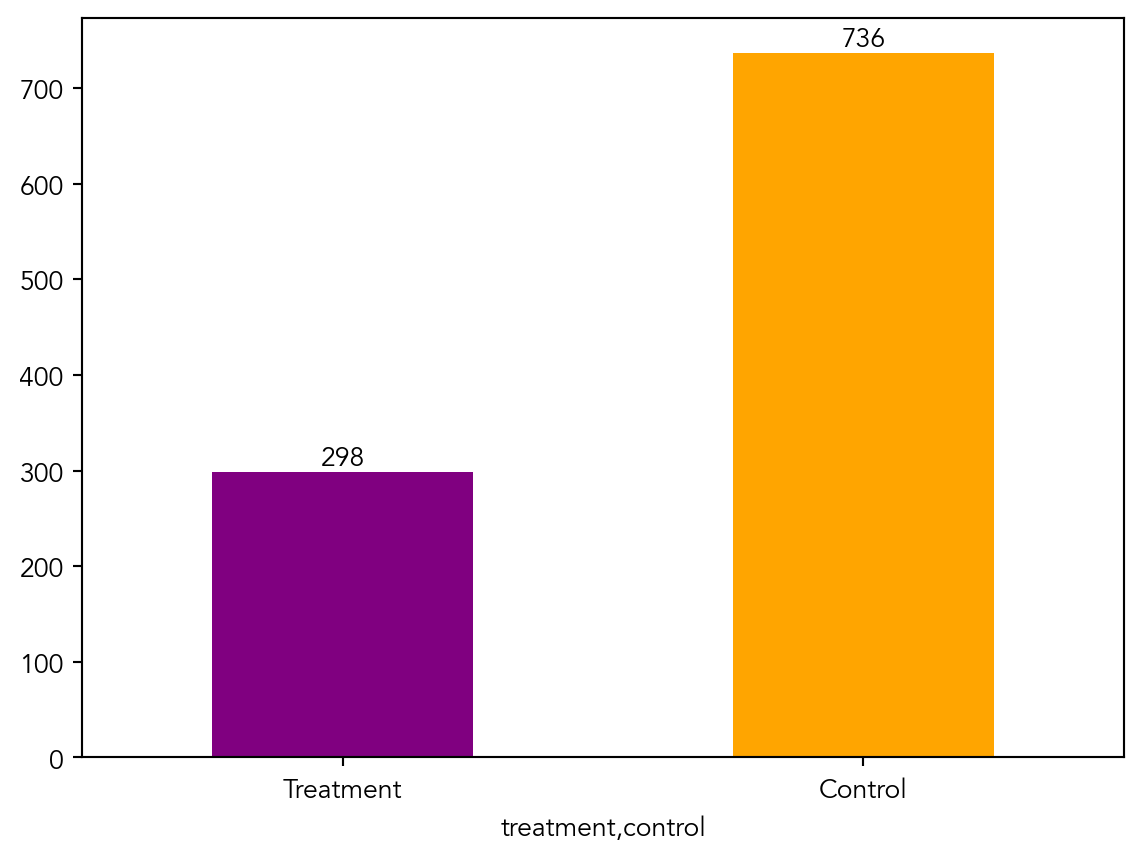
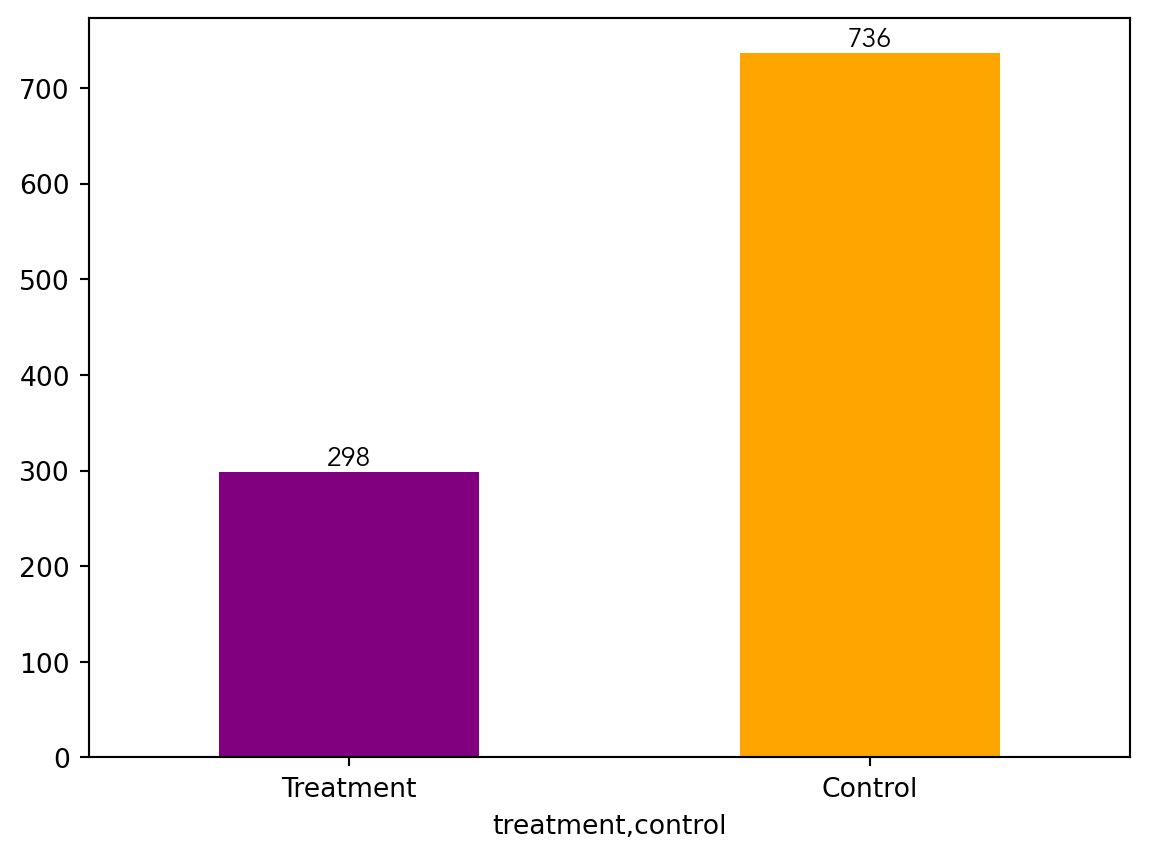
Added_projects_page

diff --git a/docs/projects/project1/projects_files/mediabag/index.html b/docs/projects/project1/projects_files/mediabag/index.html
@@ -7,7 +7,7 @@
 <meta name="viewport" content="width=device-width, initial-scale=1.0, user-scalable=yes">
 
 <meta name="author" content="Madeline Sands">
-<meta name="dcterms.date" content="2024-04-15">
+<meta name="dcterms.date" content="2024-04-16">
 
 <title>Madeline Sands - A Replication of Karlan and List (2007)</title>
 <style>
@@ -194,7 +194,7 @@ pre > code.sourceCode > span > a:first-child::before { text-decoration: underlin
     <div>
     <div class="quarto-title-meta-heading">Published</div>
     <div class="quarto-title-meta-contents">
-      <p class="date">April 15, 2024</p>
+      <p class="date">April 16, 2024</p>
     </div>
   </div>
   
@@ -214,7 +214,7 @@ pre > code.sourceCode > span > a:first-child::before { text-decoration: underlin
 </section>
 <section id="data" class="level2">
 <h2 class="anchored" data-anchor-id="data">Data</h2>
-<div id="f72fa0ed" class="cell" data-execution_count="1">
+<div id="5e6f86c5" class="cell" data-execution_count="1">
 <div class="sourceCode cell-code" id="cb1"><pre class="sourceCode python code-with-copy"><code class="sourceCode python"><span id="cb1-1"><a href="#cb1-1" aria-hidden="true" tabindex="-1"></a><span class="im">import</span> numpy <span class="im">as</span> np </span>
 <span id="cb1-2"><a href="#cb1-2" aria-hidden="true" tabindex="-1"></a><span class="im">import</span> pandas <span class="im">as</span> pd </span>
 <span id="cb1-3"><a href="#cb1-3" aria-hidden="true" tabindex="-1"></a></span>
@@ -223,7 +223,7 @@ pre > code.sourceCode > span > a:first-child::before { text-decoration: underlin
 <section id="description" class="level3">
 <h3 class="anchored" data-anchor-id="description">Description</h3>
 <p>Below is the data from the Karlan et. al 2007 data. Of a sample of 50,083 individuals who have given to a charitable organization since 1991, they were randomized and assigned 67% into “match” treatment group and a 33% into control group. the “match” treatment group was offered a matching grant conditional on their donation. The database contains information about if the participant was placed in the treatment or control group, the ratio, the size of the donation, and some more characteristics of the subject.</p>
-<div id="3566410b" class="cell" data-execution_count="2">
+<div id="a239cdaa" class="cell" data-execution_count="2">
 <div class="sourceCode cell-code" id="cb2"><pre class="sourceCode python code-with-copy"><code class="sourceCode python"><span id="cb2-1"><a href="#cb2-1" aria-hidden="true" tabindex="-1"></a>karlan_df.info()</span>
 <span id="cb2-2"><a href="#cb2-2" aria-hidden="true" tabindex="-1"></a>karlan_df.describe()</span></code><button title="Copy to Clipboard" class="code-copy-button"><i class="bi"></i></button></pre></div>
 <div class="cell-output cell-output-stdout">
@@ -286,7 +286,7 @@ Data columns (total 51 columns):
 dtypes: category(3), float32(16), float64(12), int16(4), int8(16)
 memory usage: 8.9 MB</code></pre>
 </div>
-<div class="cell-output cell-output-display" data-execution_count="7">
+<div class="cell-output cell-output-display" data-execution_count="2">
 <div>
 <div>
 
@@ -758,7 +758,7 @@ Variable Definitions
 <p>As an ad hoc test of the randomization mechanism, I provide a series of tests that compare aspects of the treatment and control groups to assess whether they are statistically significantly different from one another.</p>
 <p>I have created a function called <code>t_test_calc</code> that calculates the t_stat and indicates if there is statistically signigicant difference between the variables in the treatment and test groups at a pre-determined confidence interval.</p>
 <p><em>todo: test a few variables other than the key outcome variables (for example, test months since last donation) to see if the treatment and control groups are statistically significantly different at the 95% confidence level. Do each as a t-test and separately as a linear regression, and confirm you get the exact same results from both methods. When doing a t-test, use the formula in the class slides. When doing the linear regression, regress for example mrm2 on treatment and look at the estimated coefficient on the treatment variable. It might be helpful to compare parts of your analysis to Table 1 in the paper. Be sure to comment on your results (hint: why is Table 1 included in the paper).</em></p>
-<div id="fc61b0f7" class="cell" data-execution_count="3">
+<div id="e4ab062c" class="cell" data-execution_count="3">
 <div class="sourceCode cell-code" id="cb4"><pre class="sourceCode python code-with-copy"><code class="sourceCode python"><span id="cb4-1"><a href="#cb4-1" aria-hidden="true" tabindex="-1"></a><span class="kw">def</span> t_test_calc(data, treatment_col, control_col, outcome_col):</span>
 <span id="cb4-2"><a href="#cb4-2" aria-hidden="true" tabindex="-1"></a>    treatment <span class="op">=</span> data[data[treatment_col] <span class="op">==</span> <span class="dv">1</span>]</span>
 <span id="cb4-3"><a href="#cb4-3" aria-hidden="true" tabindex="-1"></a>    control <span class="op">=</span> data[data[control_col] <span class="op">==</span> <span class="dv">1</span>]</span>
@@ -772,7 +772,7 @@ Variable Definitions
 <span id="cb4-11"><a href="#cb4-11" aria-hidden="true" tabindex="-1"></a>    t_stat <span class="op">=</span> diff_means <span class="op">/</span> np.sqrt((std_treatment<span class="op">**</span><span class="dv">2</span><span class="op">/</span>n_treatment) <span class="op">+</span> (std_control<span class="op">**</span><span class="dv">2</span><span class="op">/</span>n_control))</span>
 <span id="cb4-12"><a href="#cb4-12" aria-hidden="true" tabindex="-1"></a>    <span class="cf">return</span> t_stat</span></code><button title="Copy to Clipboard" class="code-copy-button"><i class="bi"></i></button></pre></div>
 </div>
-<div id="c58a8c49" class="cell" data-execution_count="4">
+<div id="a4415659" class="cell" data-execution_count="4">
 <div class="sourceCode cell-code" id="cb5"><pre class="sourceCode python code-with-copy"><code class="sourceCode python"><span id="cb5-1"><a href="#cb5-1" aria-hidden="true" tabindex="-1"></a><span class="im">from</span> sklearn.linear_model <span class="im">import</span> LinearRegression</span>
 <span id="cb5-2"><a href="#cb5-2" aria-hidden="true" tabindex="-1"></a>karlan_df[<span class="st">"mrm2"</span>].fillna(<span class="dv">0</span>, inplace <span class="op">=</span> <span class="va">True</span>)</span>
 <span id="cb5-3"><a href="#cb5-3" aria-hidden="true" tabindex="-1"></a><span class="co"># Assuming data is a pandas DataFrame with columns 'outcome_variable', 'treatment', and 'other_variable'</span></span>
@@ -793,7 +793,7 @@ Variable Definitions
 Intercept: 12.99814226643495</code></pre>
 </div>
 <div class="cell-output cell-output-stderr">
-<pre><code>/var/folders/bj/t618x2614s9c896326lrdjw40000gn/T/ipykernel_71092/93217094.py:2: FutureWarning: A value is trying to be set on a copy of a DataFrame or Series through chained assignment using an inplace method.
+<pre><code>/var/folders/bj/t618x2614s9c896326lrdjw40000gn/T/ipykernel_78792/93217094.py:2: FutureWarning: A value is trying to be set on a copy of a DataFrame or Series through chained assignment using an inplace method.
 The behavior will change in pandas 3.0. This inplace method will never work because the intermediate object on which we are setting values always behaves as a copy.
 
 For example, when doing 'df[col].method(value, inplace=True)', try using 'df.method({col: value}, inplace=True)' or df[col] = df[col].method(value) instead, to perform the operation inplace on the original object.
@@ -807,7 +807,7 @@ For example, when doing 'df[col].method(value, inplace=True)', try using 'df.met
 <section id="charitable-contribution-made" class="level3">
 <h3 class="anchored" data-anchor-id="charitable-contribution-made">Charitable Contribution Made</h3>
 <p>First, I analyzed whether matched donations lead to an increased response rate of making a donation.</p>
-<div id="8dedeec2" class="cell" data-execution_count="5">
+<div id="e2ba89b4" class="cell" data-execution_count="5">
 <div class="sourceCode cell-code" id="cb8"><pre class="sourceCode python code-with-copy"><code class="sourceCode python"><span id="cb8-1"><a href="#cb8-1" aria-hidden="true" tabindex="-1"></a><span class="im">import</span> matplotlib <span class="im">as</span> plt</span>
 <span id="cb8-2"><a href="#cb8-2" aria-hidden="true" tabindex="-1"></a><span class="im">from</span> matplotlib <span class="im">import</span> rcParams</span>
 <span id="cb8-3"><a href="#cb8-3" aria-hidden="true" tabindex="-1"></a></span>
@@ -832,7 +832,7 @@ For example, when doing 'df[col].method(value, inplace=True)', try using 'df.met
 <div class="cell-output cell-output-display">
 <div>
 <figure class="figure">
-<p><img src="index_files/figure-html/cell-6-output-1.png" width="572" height="431" class="figure-img"></p>
+<p><img src="index_files/figure-html/cell-6-output-1.png" width="575" height="429" class="figure-img"></p>
 </figure>
 </div>
 </div>

diff --git a/docs/projects.html b/docs/projects.html
@@ -202,7 +202,7 @@ window.Quarto = {
 
 <div class="quarto-listing quarto-listing-container-grid" id="listing-listing">
 <div class="list grid quarto-listing-cols-3">
-<div class="g-col-1" data-index="0" data-listing-date-sort="1713164400000" data-listing-file-modified-sort="1713241979249" data-listing-date-modified-sort="NaN" data-listing-reading-time-sort="22" data-listing-word-count-sort="4231">
+<div class="g-col-1" data-index="0" data-listing-date-sort="1713250800000" data-listing-file-modified-sort="1713287833323" data-listing-date-modified-sort="NaN" data-listing-reading-time-sort="22" data-listing-word-count-sort="4226">
 <a href="./projects/project1/projects_files/mediabag/index.html" class="quarto-grid-link">
 <div class="quarto-grid-item card h-100 card-left">
 <p class="card-img-top"><img src="projects/project1/projects_files/mediabag/index_files/figure-html/cell-6-output-1.png" style="height: 150px;"  class="thumbnail-image card-img"/></p>
@@ -218,7 +218,7 @@ Dean Karlan at Yale and John List at the University of Chicago conducted a field
 Madeline Sands
 </div>
 <div class="listing-date">
-Apr 15, 2024
+Apr 16, 2024
 </div>
 </div>
 </div>

diff --git a/docs/index.html b/docs/index.html
@@ -95,6 +95,10 @@ ul.task-list li input[type="checkbox"] {
     <a class="nav-link" href="./resume.html"> 
 <span class="menu-text">Resume</span></a>
   </li>  
+  <li class="nav-item">
+    <a class="nav-link" href="./projects.html"> 
+<span class="menu-text">Projects</span></a>
+  </li>  
 </ul>
           </div> <!-- /navcollapse -->
           <div class="quarto-navbar-tools">

diff --git a/docs/resume.html b/docs/resume.html
@@ -97,7 +97,7 @@ ul.task-list li input[type="checkbox"] {
 <span class="menu-text">Resume</span></a>
   </li>  
   <li class="nav-item">
-    <a class="nav-link" href="./projects.qmd"> 
+    <a class="nav-link" href="./projects.html"> 
 <span class="menu-text">Projects</span></a>
   </li>  
 </ul>
